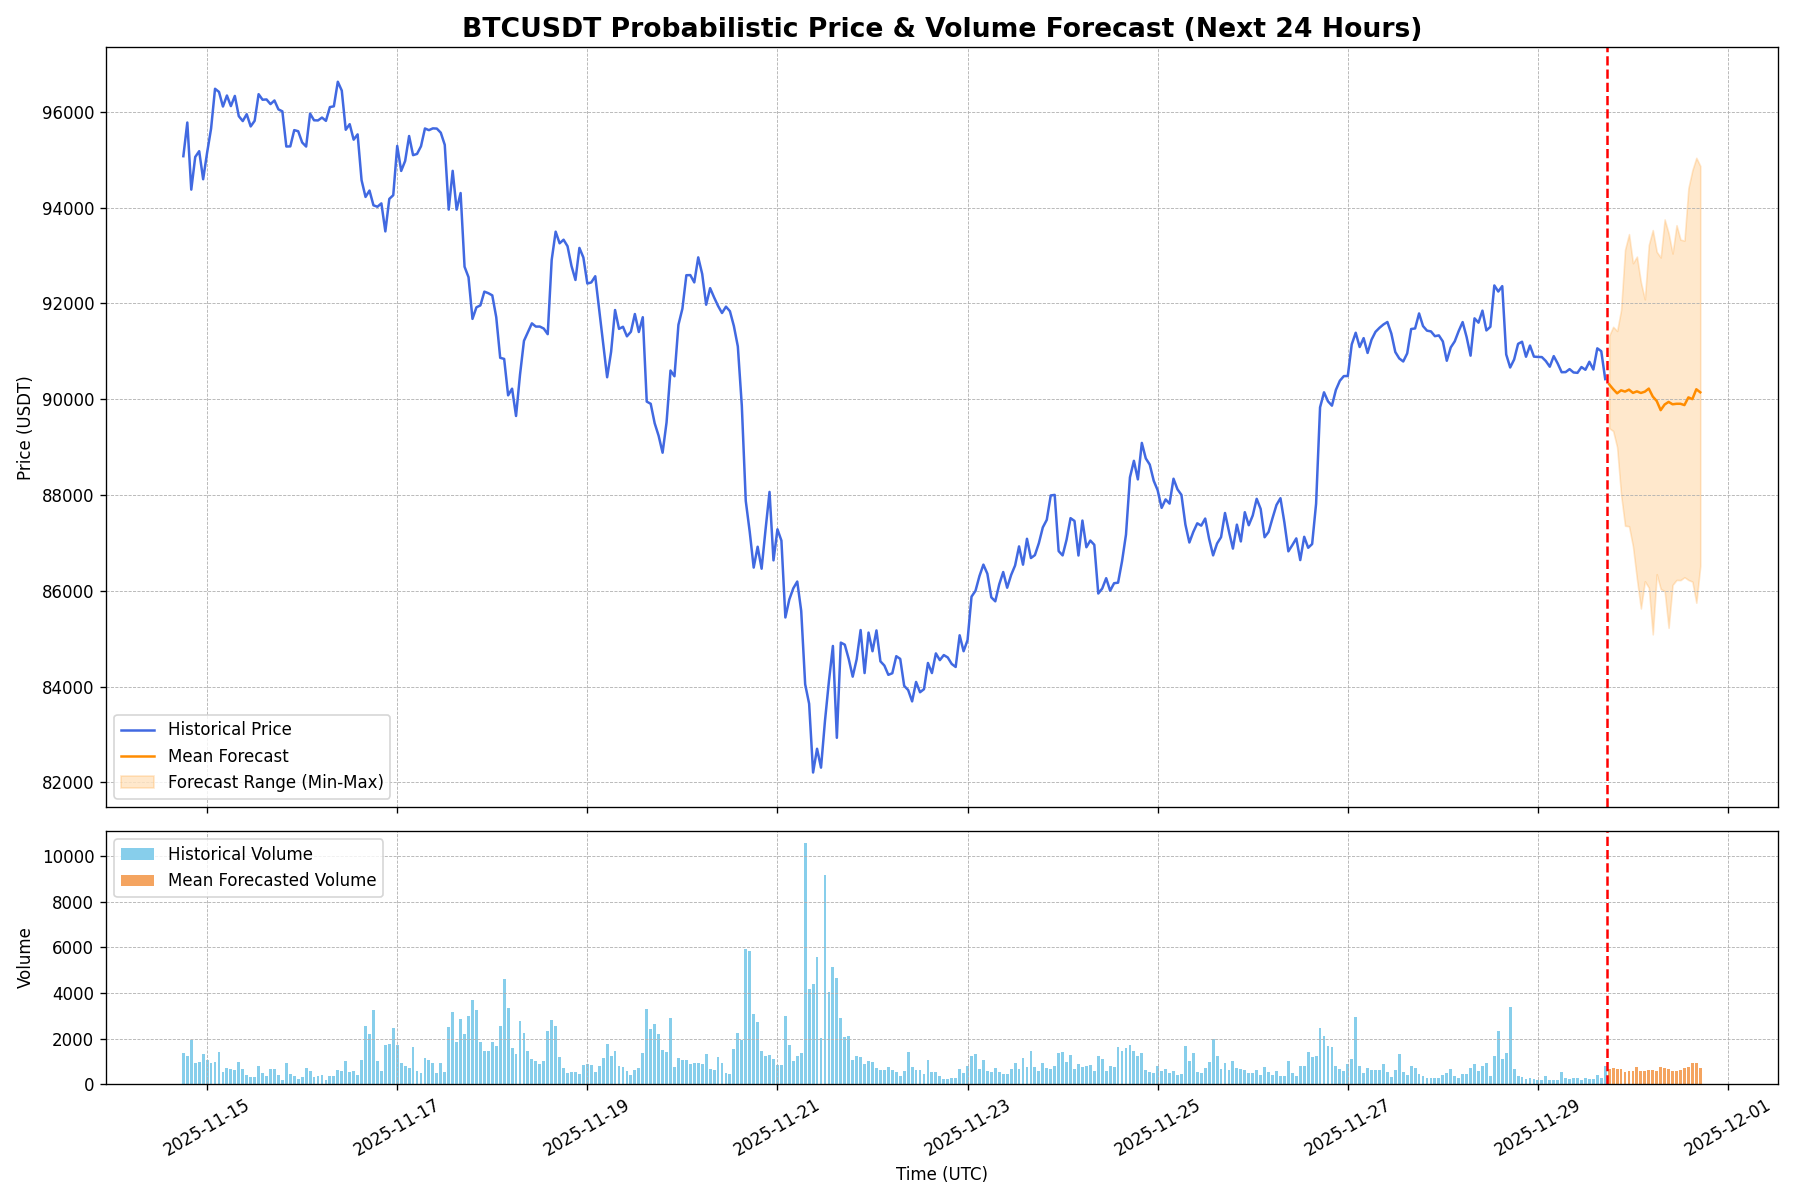
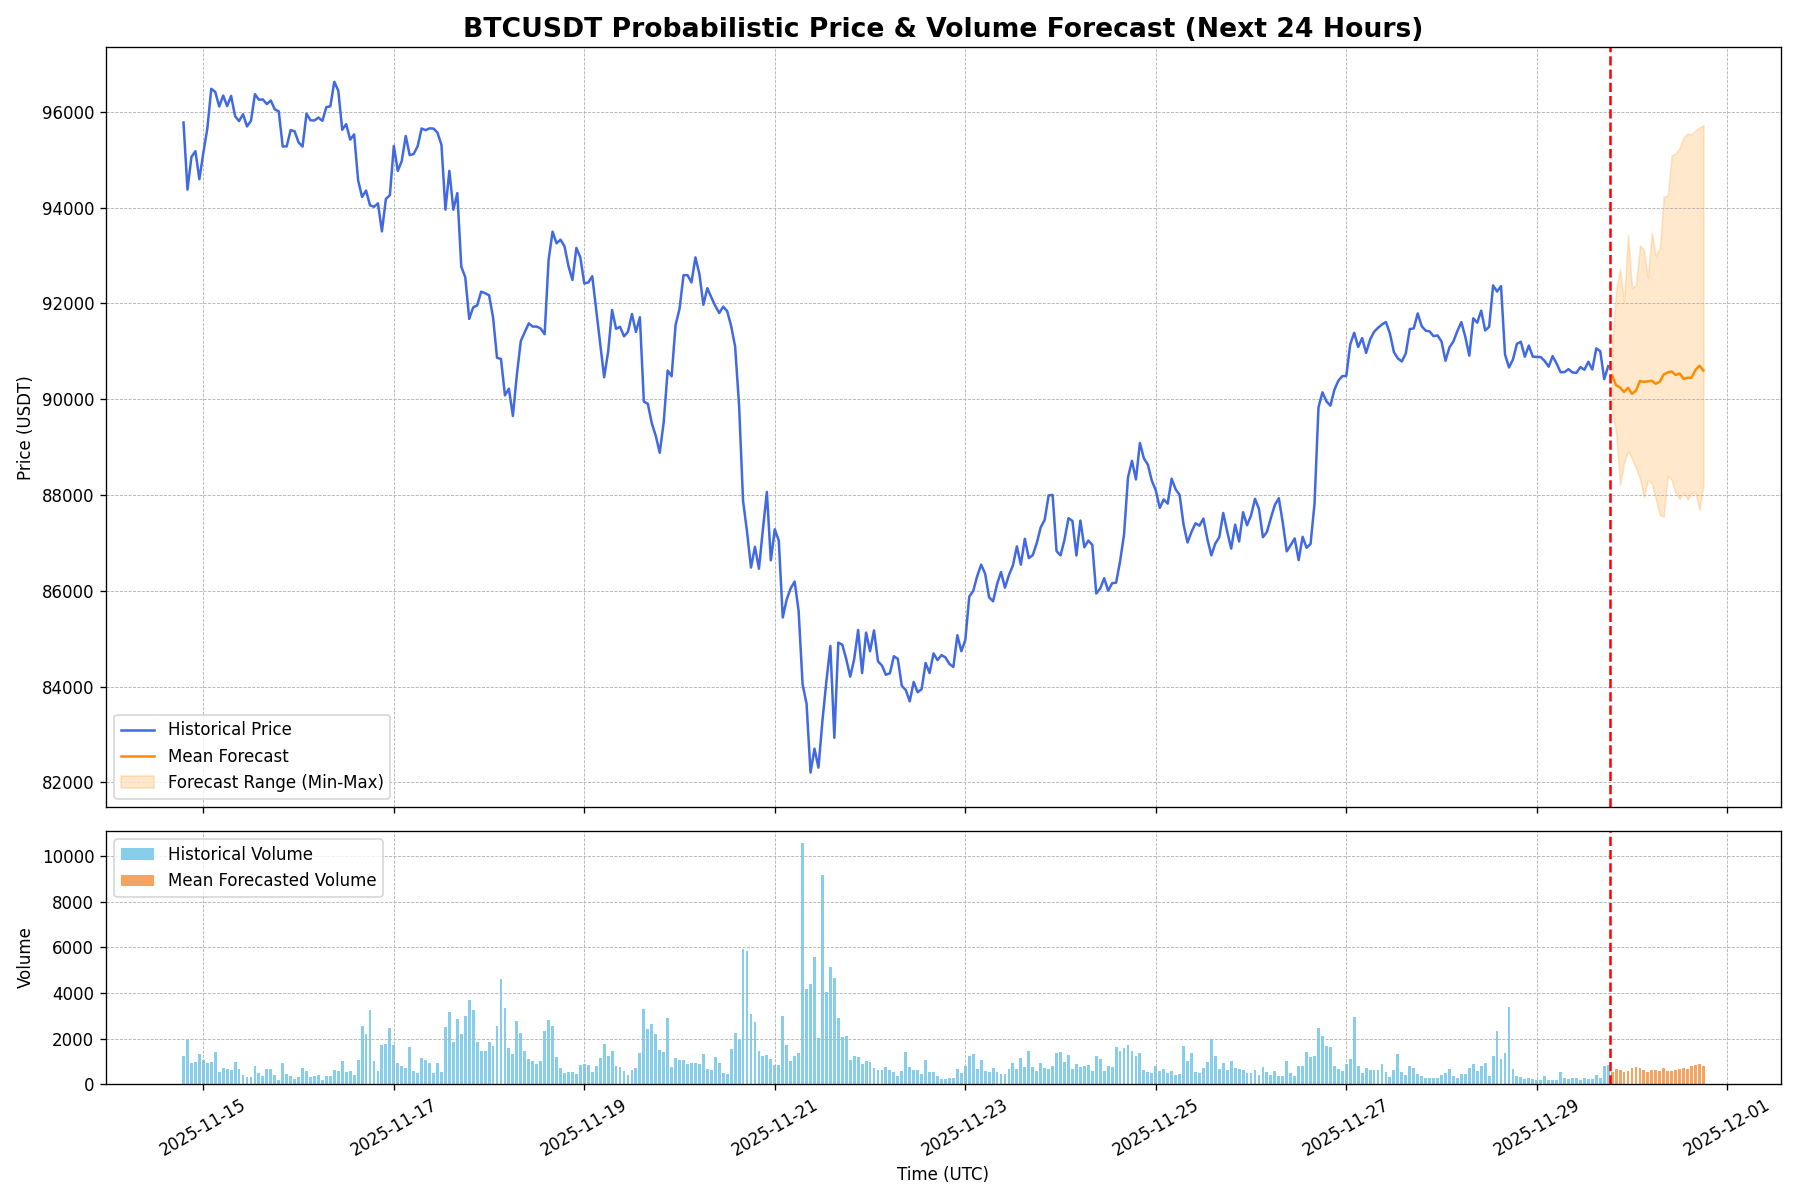
Auto-update forecast for 2025-11-29 19:01 UTC

diff --git a/index.html b/index.html
@@ -22,14 +22,14 @@
         <section id="live-dashboard">
             <h2>Live BTC/USDT Forecast Dashboard</h2>
             <div class="metadata">
-                <span>Last Updated (UTC): <strong id="update-time">2025-11-29 18:01:06</strong></span>
+                <span>Last Updated (UTC): <strong id="update-time">2025-11-29 19:01:07</strong></span>
                 <span>Data Source: Binance | Interval: 1-Hour</span>
             </div>
 
             <div class="metrics-container">
                 <div class="metric-card">
                     <h3>Upside Probability (Next 24h)</h3>
-                    <p class="metric-value" id="upside-prob">46.7%</p>
+                    <p class="metric-value" id="upside-prob">40.0%</p>
                     <div class="metric-desc">The model's confidence that the price in 24 hours will be higher than the last known price.</div>
                 </div>
                 <div class="metric-card">
